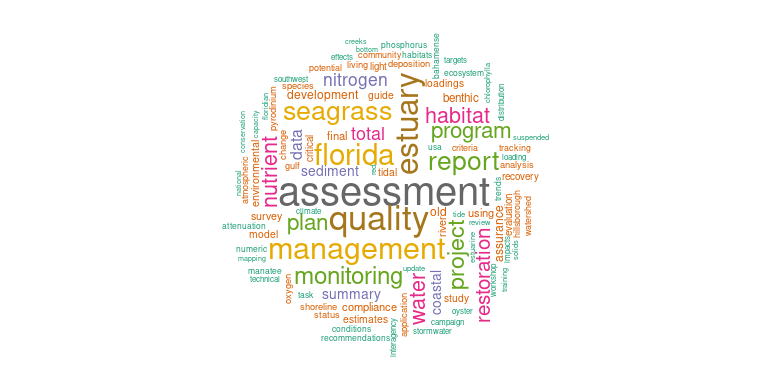
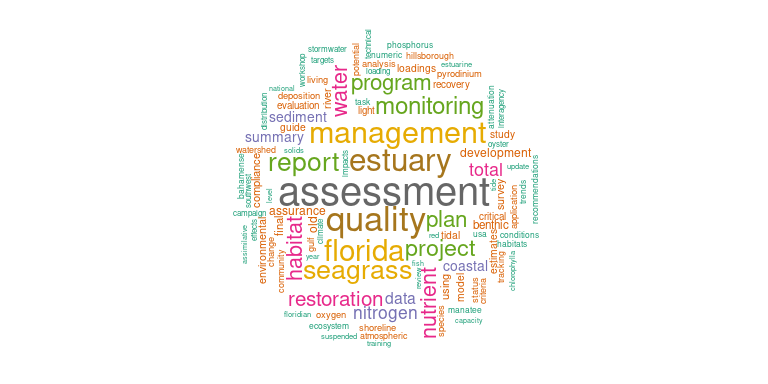
Re-build README and index

Changed region(s): [[0.2812, 0.0625, 0.7188, 0.9375]]

diff --git a/allindex.html b/allindex.html
@@ -376,7 +376,7 @@ educational</h1>
 </div>
 
 
-<p>Created 2026-06-07, .bib file <a href="https://github.com/tbep-tech/tbep-refs/blob/master/allbibs.bib">here</a></p>
+<p>Created 2026-06-08, .bib file <a href="https://github.com/tbep-tech/tbep-refs/blob/master/allbibs.bib">here</a></p>
 <div id="refs" class="references csl-bib-body">
 <div id="ref-tbep1326" class="csl-entry">
 <div class="csl-left-margin">1. </div><div class="csl-right-inline">P.M.

diff --git a/eduindex.html b/eduindex.html
@@ -375,7 +375,7 @@ display: none;
 </div>
 
 
-<p>Created 2026-06-07, .bib file <a href="https://github.com/tbep-tech/tbep-refs/blob/master/edubibs.bib">here</a></p>
+<p>Created 2026-06-08, .bib file <a href="https://github.com/tbep-tech/tbep-refs/blob/master/edubibs.bib">here</a></p>
 <div id="refs" class="references csl-bib-body">
 <div id="ref-edu0726" class="csl-entry">
 <div class="csl-left-margin">1. </div><div class="csl-right-inline">Tampa Bay Estuary Program (2026) <em><span class="nocase">2026 Return on Investment</span></em>, Education product

diff --git a/techindex.html b/techindex.html
@@ -375,7 +375,7 @@ display: none;
 </div>
 
 
-<p>Created 2026-06-07, .bib file <a href="https://github.com/tbep-tech/tbep-refs/blob/master/techbibs.bib">here</a></p>
+<p>Created 2026-06-08, .bib file <a href="https://github.com/tbep-tech/tbep-refs/blob/master/techbibs.bib">here</a></p>
 <div id="refs" class="references csl-bib-body">
 <div id="ref-tbep1326" class="csl-entry">
 <div class="csl-left-margin">1. </div><div class="csl-right-inline">P.M.